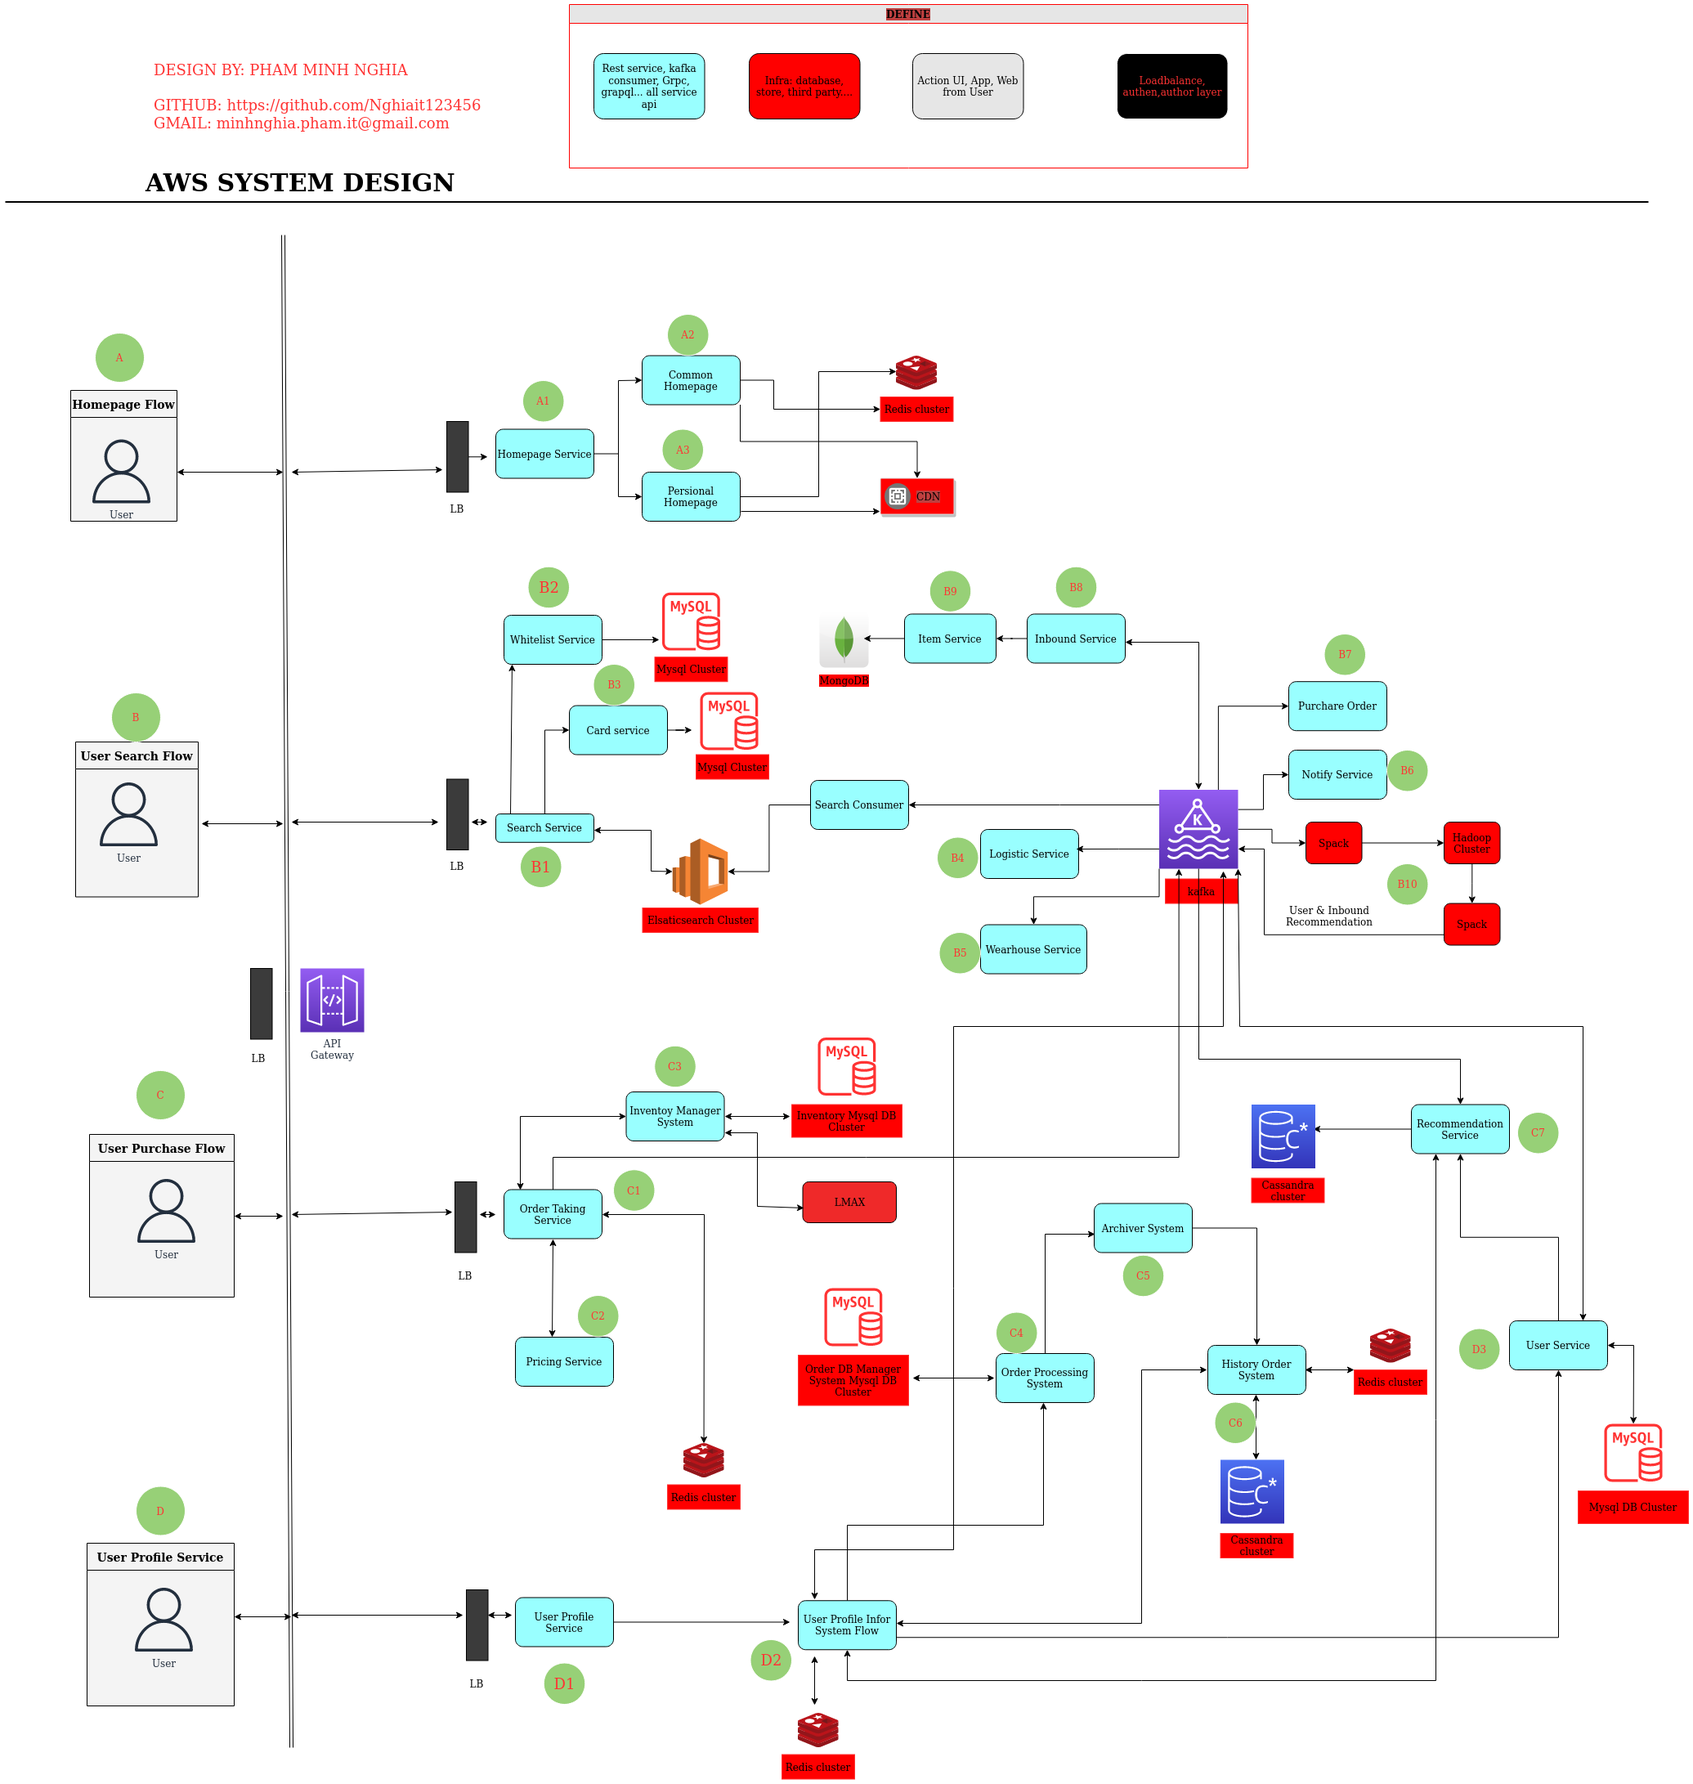
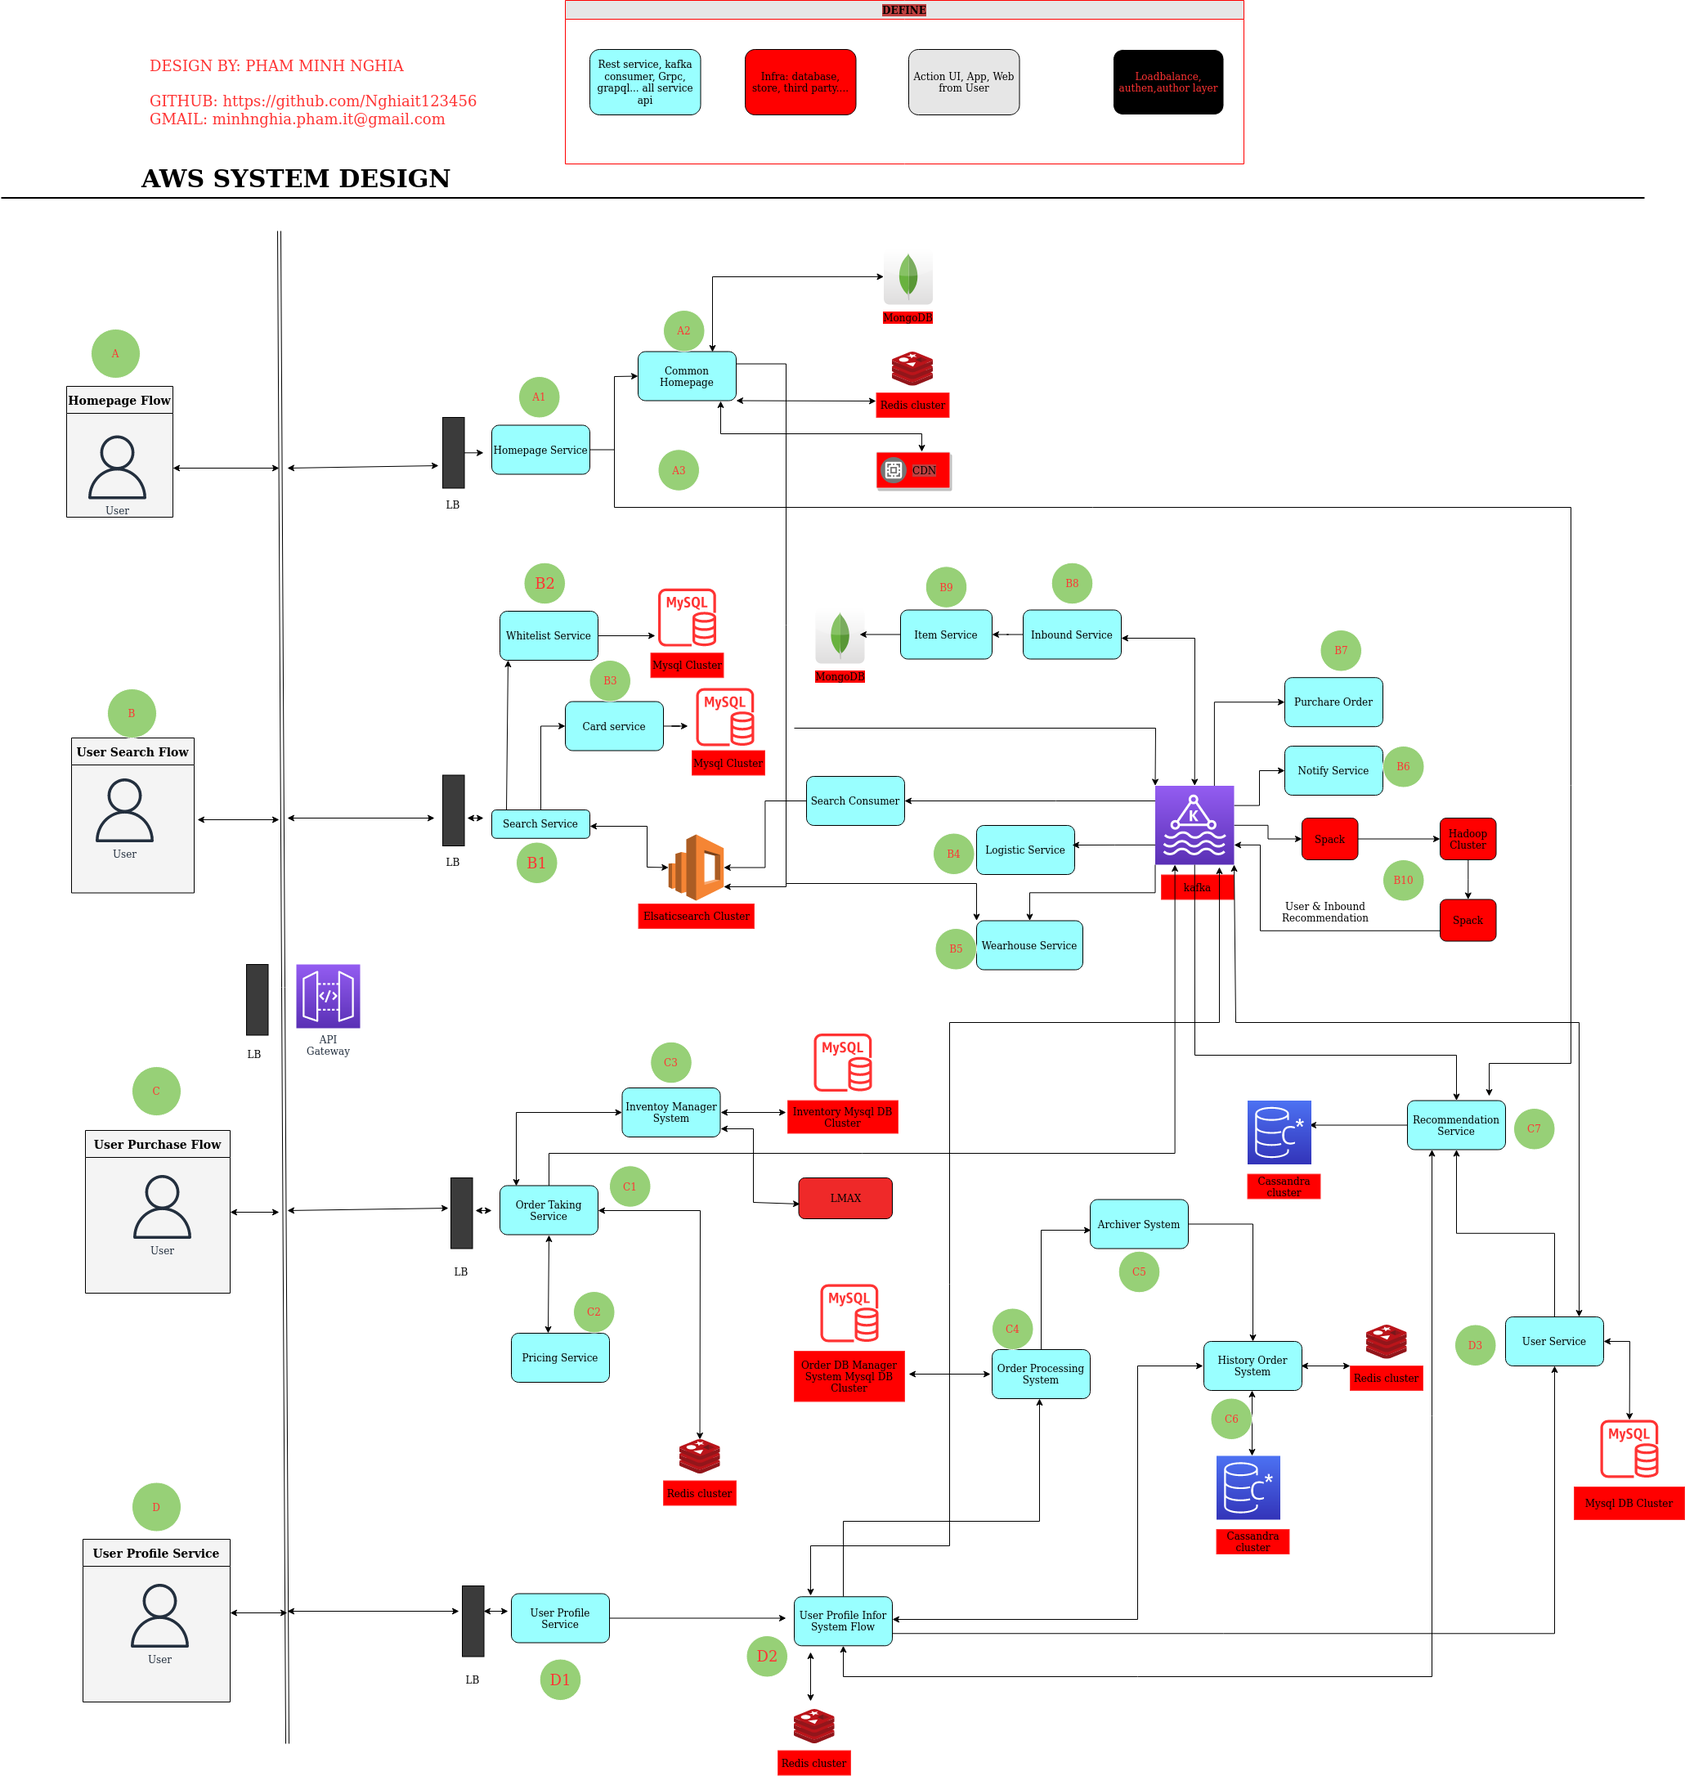
save search Service

diff --git a/AWS/README.md b/AWS/README.md
@@ -3,46 +3,64 @@
 - [Functional Requirements](#functional_requirements)
 - [Non Function](#non_function)
 - [Explain Common](#explain-common)
-  - [HomePage](#home-page)
-    
-## Preview? <a name="preview"></a>
-I will design aws e-commerce system serving billions of users. This design will go no-function to function, top-down, common to detail. </br>
+    - [HomePage Flow](#home-page-flow)
+    - [User Search Flow](#user-search-flow)
 
-## Design? <a name="design"></a>
+## Preview <a name="preview"></a>
+
+I will design aws e-commerce system serving billions of users. This design will go no-function to function, top-down,
+common to detail. </br>
+
+## Design <a name="design"></a>
+
 ![AWS-system-design.png](img%2FAWS-system-design.png) </br>
 
+## Functional Requirements <a name="functional_requirements"></a>
 
-## Functional Requirements? <a name="functional_requirements"></a>
 +) Provider homepage, user information page.</br>
-+) Provide a search functionality, remove products was out of stock.</br>
++) Provide a search functionality, remove products was out of stock, search with delivery's info. </br>
 +) Provide checkout flow smoothly, payment flow smoothly.</br>
 +) Provide a catalog of all products.</br>
 +) Provide Cart and Wishlist features. </br>
 +) Provide a view for all previous orders. </br>
-+) Provider Inventory providers handle race conditions with hundreds of thousands of people buying the same production </br>
++) Provider Inventory providers handle race conditions with hundreds of thousands of people buying the same
+production </br>
 
+## Non Function <a name="non_function"></a>
 
-## Non Function? <a name="non_function"></a>
 +) Low latency. </br>
 +) High availability. </br>
 +) High consistency. </br>
 
-An e-commerce system that meets all three factors above with a high traffic, billions of users is a difficult problem. To clarify, there are some services that must strictly meet 3 factors: inventory, checkout, ... Search service needs high availability and does not need absolute consistency. Service order's history, user profile also requires 3 factors above, but not absolutely. To thoroughly solve this problem, it is necessary to combine a lot of knowledge and experience in handling race conditions. Here we go... </br>
+An e-commerce system that meets all three factors above with a high traffic, billions of users is a difficult problem.
+To clarify, there are some services that must strictly meet 3 factors: inventory, checkout, ... Search service needs
+high availability and does not need absolute consistency. Service order's history, user profile also requires 3 factors
+above, but not absolutely. To thoroughly solve this problem, it is necessary to combine a lot of knowledge and
+experience in handling race conditions. Here we go... </br>
 
-## Explain Common? <a name="explain-common"></a>
-## HomePage? <a name="home-page"></a>
+## Explain Common <a name="explain-common"></a>
+
+## HomePage Flow  <a name="home-page-flow"></a>
+
 ![home-page.png](img%2Fhome-page.png) </br>
 
+A Homepage is the soul of an e-commerce site, it is a determining factor in whether customers are excited to buy. I
+design a flexible homepage suitable for regions and users. </br>
 
-A Homepage is the soul of an e-commerce site, it is a determining factor in whether customers are excited to buy. I design a flexible homepage suitable for regions and users. </br>
+Every time a user visits, the homepage service will rely on the user's ip to determine the appropriate common homepage
+load. Common homepage will have parameters like: top N best-selling categories and X products of each category, flatsale
+information, menu... it will be loaded by territory, installed by admin page. </br>
 
-Every time a user visits, the homepage service will rely on the user's ip to determine the appropriate common homepage load. Common homepage will have parameters like: top N best-selling categories and X products of each category, flatsale information, menu... it will be loaded by territory, installed by admin page. </br>
-
-We have a recommendation service, which are customized and customized according to the individual user (if the user is logged in), or by ID define (cookie, app,...). A personnal homapage means, imagine, a user who is always disinterested in one group of items, and is always interested and interested in another. For a good customer experience, the things customers hate or never buy will not appear on the homepage. A merchine learning will work on the data ware house to come up with the best personalized information. </br>
+We have a recommendation service, which are customized and customized according to the individual user (if the user is
+logged in), or by ID define (cookie, app,...). A personnal homapage means, imagine, a user who is always disinterested
+in one group of items, and is always interested and interested in another. For a good customer experience, the things
+customers hate or never buy will not appear on the homepage. A merchine learning will work on the data ware house to
+come up with the best personalized information. </br>
 
 Combining the two services, we have the homepage information. </br>
 
 //menu ex:
+
 ```
 {
 version: xxxx,
@@ -59,6 +77,7 @@ web :{
 
 //trend category ex:
 ```
+
 ```
 {
 version: xxxx,
@@ -73,12 +92,107 @@ category-product-trend : {...},
 }
 ``` 
 
-The data of the homepage is in a non-relational form and has high flexibility, the frequency of reading and writing is not too large, the amount of data is quite small, mongoDB will be selected. For details on when to choose which data, see the link:...  </br>
-The non-function requirement of the homepage is high availability and short page load time. With a huge amount of homepage traffic, there won't be a single request to get information directly from the Database. All information of homepage will be taken from redis cluster. The updated cache and invalidate cache information will be taken from the event source and updated in the background. </br>
+The data of the homepage is in a non-relational form and has high flexibility, the frequency of reading and writing is
+not too large, the amount of data is quite small, mongoDB will be selected. For details on when to choose which data,
+see the
+link: https://github.com/Nghiait123456/SystemDesignBigProject/blob/master/BestPracticeChooseDataBase/README.md   </br>
+The non-function requirement of the homepage is high availability and short page load time. With a huge amount of
+homepage traffic, there won't be a single request to get information directly from the Database. All information of
+homepage will be taken from redis cluster. The updated cache and invalidate cache information will be taken from the
+event source and updated in the background. </br>
 
-If any of the homepage redis records are lost, no queries will be able to access the database directly. If this happens, a storm of hundreds of thousands of users will overwhelm the database, which was originally designed not to suffer from high frequency of reads. The request sent there will get an error, an empty-homepage-... event will be emitted, and the homepage service will receive that event and update the data to cache. At this step, there can still be an event race, the homePage service will have a minimum time for an update of x seconds. </br>
+If any of the homepage redis records are lost, no queries will be able to access the database directly. If this happens,
+a storm of hundreds of thousands of users will overwhelm the database, which was originally designed not to suffer from
+high frequency of reads. The request sent there will get an error, an empty-homepage-... event will be emitted, and the
+homepage service will receive that event and update the data to cache. At this step, there can still be an event race,
+the homePage service will have a minimum time for an update of x seconds. </br>
 
-In frontend, all files, css, js, images, videos ... will be loaded from CDN and must be loaded from CDN. The css, js, html files will have to be cached according to the version in the browser to reduce the CDN load. </br>
+In frontend, all files, css, js, images, videos ... will be loaded from CDN and must be loaded from CDN. The css, js,
+html files will have to be cached according to the version in the browser to reduce the CDN load. </br>
 These are the most common notes for the homepage service to meet the needs of the problem. </br>
 
 ![homepage_aws_cache.png](img%2Fhomepage_aws_cache.png) </br>
+
+## User Search Flow  <a name="user-search-flow"></a>
+
+![user-search-flow.png](img%2Fuser-search-flow.png) </br>
+A large e-commerce platform like AWS will have a lot of suppliers. I have Inbound Services to manage all suppliers.
+Inbound Service will interact with supplier systems and fetch the relevant data. When a supplier is added, or suppliers
+add a new product, the entire system involved must know so that the information is easily available to the user. These
+data will be transmitted by the Inbound service as events to kafka, through consumer listening. Kafka forwards this
+event to the homepage service, search service... or any service that listens for the event.
+
+Specifically about storing Inbound data: service Item service will have consumers listening to kafka onboard new items,
+new suppliers,... It will perform add, update, fetch items operations. The data will be stored in MongoDB, because the
+data is all un-struct. For example, a blanket will have color, size, weight, fabric type, a phone will have: size,
+color, operating system, tech info..., items. MongoDB is suitable for this data type, details of how to choose DB are in
+the link: https://github.com/Nghiait123456/SystemDesignBigProject/blob/master/BestPracticeChooseDataBase/README.md </br>
+
+As soon as a new item is on-boarded, a search consumer will make sure that this item can be queried by the users. It
+will read and process all the on-board products, and store it in the database so that the Search Service can understand
+this data. After formatting and standard data, it pushes the data to the ElasticSearch database. I use an ElasticSearch
+here as it is very efficient for text-based search and also supports fuzzy search which we need for seamless user
+experience. Details of how to select the DB at the
+link: https://github.com/Nghiait123456/SystemDesignBigProject/blob/master/BestPracticeChooseDataBase/README.md. </br>
+
+Search services will now interact with Elastic Search which will expose APIs to filter, sort, search,.. the products.
+Function require: "search with delivery". That is, the Search Service will have to discard the results that cannot be
+shipped. The Search service will have to talk to the Logistic Service to know if there is a route between the user's
+default address and the warehouses, which route is closest, the approximate delivery date... and pass it on to the
+Search Service. Search Service will display information to the user. To do this, the Logistic Service has to do smart
+traffic, it has a different system design, or it can use the api of maps like google. </br>
+
+Search Service also has a function that does not find and display out of stock products. Search Service will have to
+list product search to Out Of Stock Service and Out Of Stock Service will return products that are out of stock. Why
+need Out Of Stock service without having to get information directly from Elastic Search. Elastic Search takes time to
+update inventory, reIndex, ... larger than realtime search demand. Elastic Search is not generated for real-time search,
+detail in https://www.elastic.co/guide/en/elasticsearch/reference/current/near-real-time.html. 
+Out Of Stock Service will do a simple job, return all Out Of Stock products from the inbound item list. It must ensure
+relatively high realtime and extremely short response time, extremely large number of queries. First, every time a
+product is out of stock or from out of stock to in stock, Inventory Service will send events to kafka, Out Of Stock will
+listen to these events and update its data. All data will be saved in Redis Cluster, ensuring the fastest response time.
+All Out Of Stock work will be done in the background, there will always be direct response results as soon as there is a
+fetch request. </br>
+
+Search Service is a difficult service, in addition to accurate and effective search, it also has to ensure the realtime
+of many factors. Information when the process is completed will be sent to the user. A detailed search
+service: https://github.com/Nghiait123456/eomerce_search_service </br>
+
+From the search screen, the user should be able to wishlist a product or add it to the cart. This happens via Wishlist
+Service and Cart Service. Wishlist is a repository for all wishlists and Carts for all products. The two translations
+are built the same, they provide API fetch, update, delete items. They are stored on Mysql. Especially Cart and
+Wishlist have clear struct, have clear relationship of components, have UUID item and some related information, require
+integrity, Mysql will be the choice. The Wishlist information will not be updated continuously, depending on the user
+action, Cart and Wishlist are all information with very high read frequency, but the race conditions is not large
+because it is specific information of a user, so the cache is created. First time when reading to DB and updating by
+event sourcing. When the cache is invalidate, the first get info cache request will read from the DB and update the
+cache for the next read. </br>
+
+Every time a lookup event search, an event is sent to kafka. This is the data source for me to build a personalized
+system according to user preferences and recommend the most popular and relevant products. </br>
+Our Kafka service will be connected to a spark streaming consumer to generate real-time reports such as: most searched
+products of the hour, day of the day, favorite products of the day, week, categories with the highest revenue . Our
+Kafka service will be connected to a spark streaming consumer, data coming from Kafka will also be dumped in a Hadoop
+cluster, ALS algorithms,... machine learning will be used to generate personalized recommendations, search products,
+wish list,... This is the most general keyword, I'm not an expert in this field so I won't mention it in detail.
+Finally, the personalized user information and Wishlist will be pushed by Spack to kafka and kafka to the
+Recommendation Service. This information will be stored on Cassandra DB. Information about Recommendation is un-struct
+in nature and has a very large read frequency, so CassandraDB was chosen. </br>
+
+User Service is a service that provides all information and manipulation with user info: fee, add, update, delete, ...
+user. The user's information is related, structured and must be complete (rewards, addresses, coupons,...), the
+relationships will revolve around the UserID. Therefore, Mysql Cluster will be selected to store information. Most of
+the readings will be stored in the Redis Cluster, updated via event sourcing. A little more in-depth analysis of how
+invalidate caches are handled. Here, the information representing that individual, when the information is not found on
+the cache, can freely go to the DB to read and update it in the cache. Each information represents only one user so a
+storm of race conditions update to DB will not take place. Handling cache in this service is simpler than many services
+with race conditions when cache invalidate is extremely high. </br>
+
+How does Logistic Service know if delivery is possible, the most boring route. Logistic Service will get all the codes
+in the warehouses, Logistic Service will talk to the courier service to find out the closest distance between the
+warehouse and the shipping addresses. The shipping addresses will be defined as clusters, in a city there are many
+clusters, and the user's specific address will be in one of those clusters. After getting the shortest distance to the
+address cluster, it needs to be fine-tuned to get the shortest distance to that address. This work is similar to the
+work of google map. I am no expert in this area, I can elaborate on it on another occasion. The key is that all
+information must be calculated background and available, to ensure realtime for search and payment operations. </br>
+
